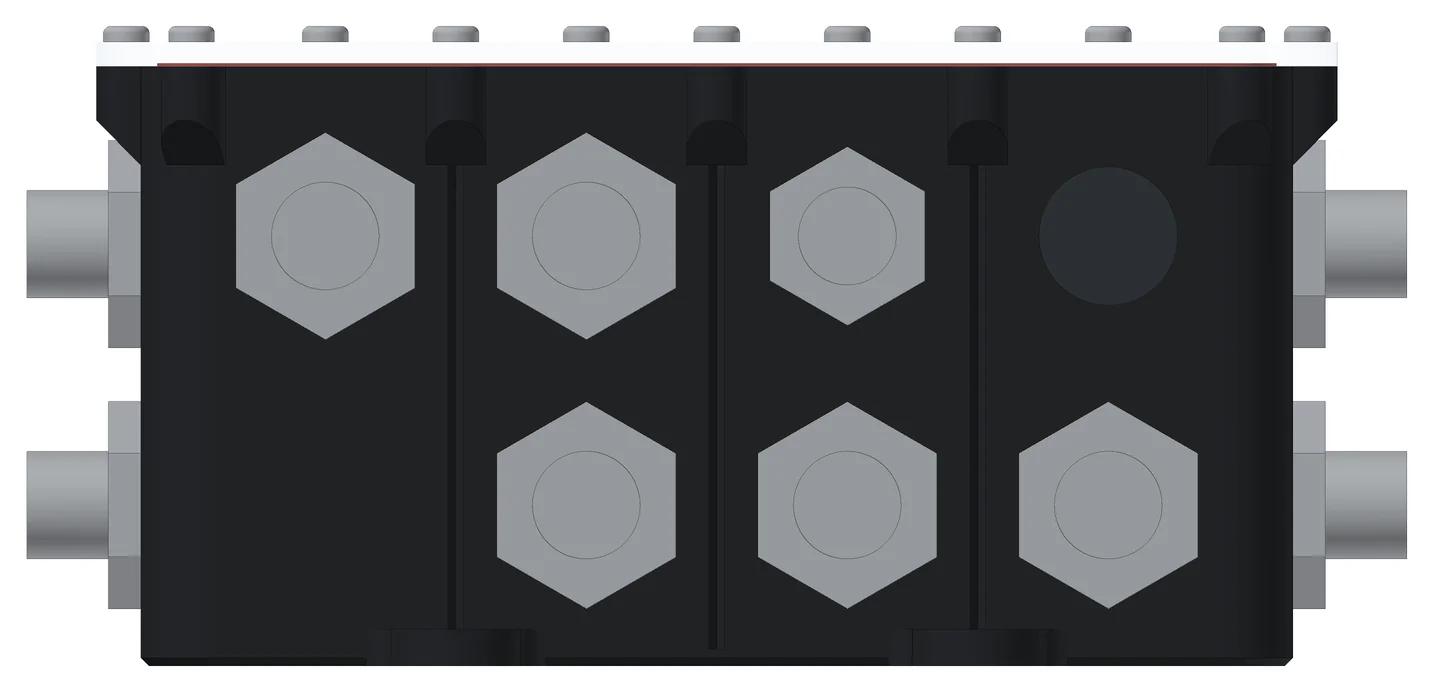
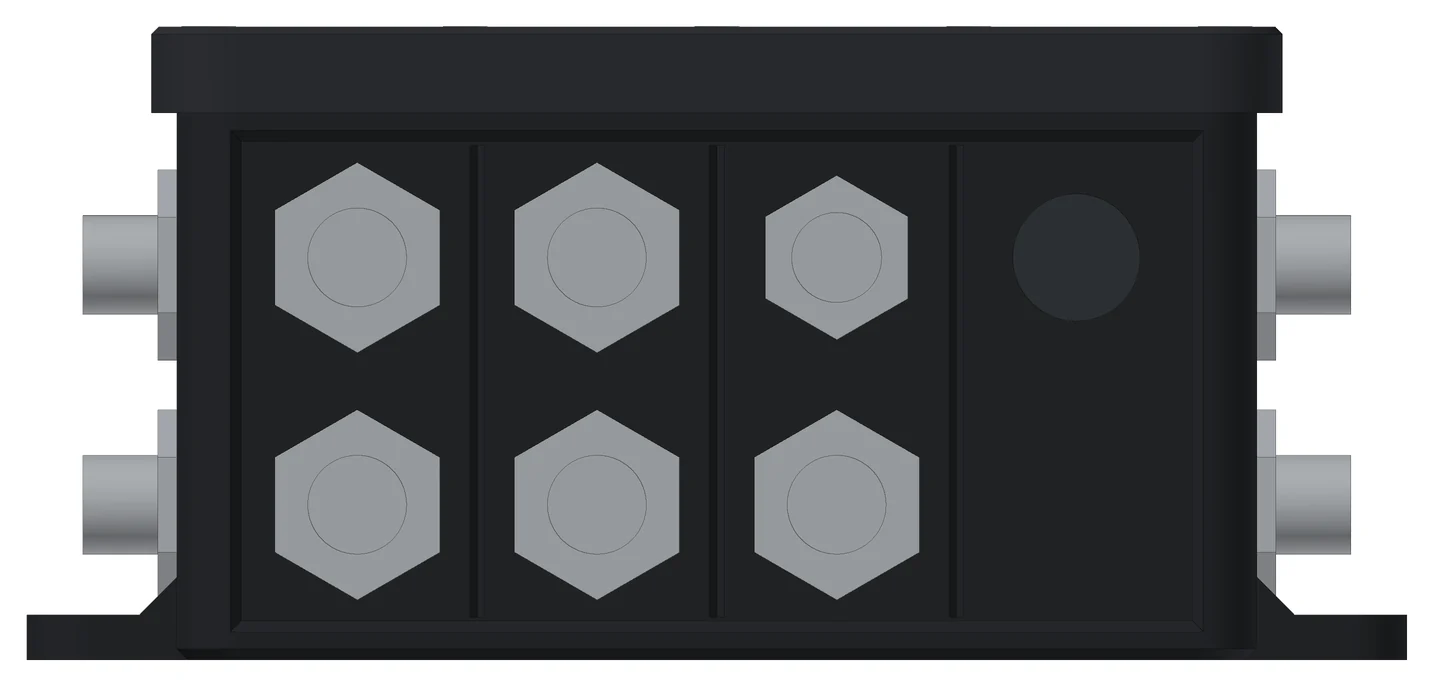
Fertigation page: premium boxes (5 mm walls, framed window with overlapping skirt), pH by cable gland, new sizes and renders

diff --git a/docs/fertigation/fio-8.html b/docs/fertigation/fio-8.html
@@ -129,6 +129,7 @@ svg .zone { fill: color-mix(in srgb, var(--cyan) 7%, transparent); stroke: none 
 
 .pair { display: grid; grid-template-columns: minmax(0, 1fr) minmax(0, 1fr); gap: 22px; align-items: start }
 .pair img { width: 100%; height: auto; display: block }
+figure.map > img { width: 100%; max-width: 760px; height: auto; display: block }
 @media (max-width: 760px) { .pair { grid-template-columns: minmax(0, 1fr) } }
 
 .note { background: var(--surface); border: 1px solid var(--line); border-radius: var(--radius); padding: 16px 18px; display: grid; gap: 6px }
@@ -154,8 +155,8 @@ footer .logo { height: 28px }
     <h1>FIO-8 fertigation board</h1>
     <p class="lead">The FIO-8 drives up to eight nutrient dosing pumps from one flow meter. Ten times a second it turns the recipe into a speed for every pump. Each pump output is electrically isolated, and the board stops dosing on its own the moment a reading or a wire looks wrong. It connects to GCU Cloud over Wi-Fi on its own, can report to an on-site GCU Manager, and is set up and run from the GCU Setup app over Bluetooth. Its RS-485 port reads and powers the water-quality probes. It comes in a sealed wall-mount box: every pump, sensor and input plugs in on a standard M12 connector, so there are no terminals to wire and no cabinet to build.</p>
     <figure class="hero-fig">
-      <img src="img/revc-fio8-closed.webp" width="1600" height="1234" alt="Render of the FIO-8 in its sealed black wall-mount box with a clear cover: rows of M12 connectors on the walls, the circuit board visible through the cover">
-      <figcaption>Rev C, rendered from the design. Pump ports on the front wall, sensor and input ports on the back, power, sensor bus, E-stop and the contactor and flush ports together on one end. The board and its lights show through the clear cover.</figcaption>
+      <img src="img/revc-fio8-closed.webp" width="1600" height="1313" alt="Render of the FIO-8 in its sealed black wall-mount box with a clear cover: rows of M12 connectors on the walls, the circuit board visible through the cover">
+      <figcaption>Rev C, rendered from the design. Pump ports on the front wall, sensor and input ports on the back, power, sensor bus, E-stop and the contactor and flush ports together on one end. The board and its lights show through the clear window in the cover.</figcaption>
     </figure>
   </div>
 
@@ -402,7 +403,7 @@ footer .logo { height: 28px }
     <div class="walls" role="group" aria-label="Port layout of the three connector walls, seen from outside">
       <div class="wall"><h3>Front wall · pumps</h3><div class="ports"><span class="port">PUMP 1</span><span class="port">PUMP 2</span><span class="port">PUMP 3</span><span class="port">PUMP 4</span><span class="port">PUMP 5</span><span class="port">PUMP 6</span><span class="port">PUMP 7</span><span class="port">PUMP 8</span></div></div>
       <div class="wall"><h3>Back wall · sensors and inputs</h3><div class="ports"><span class="port">FLOW A</span><span class="port">FLOW B</span><span class="port">4–20 IN 1</span><span class="port">4–20 IN 2</span><span class="port">IN 1·2</span><span class="port">IN 3·4</span><span class="port">IN 5·6</span><span class="port">IN 7·8</span></div></div>
-      <div class="wall"><h3>Service end</h3><div class="ports"><span class="port">BUS</span><span class="port">SENSOR BUS</span><span class="port pwr">24 V DC</span><span class="port none">vent</span><span class="port none">–</span><span class="port">E-STOP</span><span class="port">CON&shy;TACTOR</span><span class="port">FLUSH</span></div></div>
+      <div class="wall"><h3>Service end</h3><div class="ports"><span class="port">BUS</span><span class="port">SENSOR BUS</span><span class="port pwr">24 V DC</span><span class="port none">vent</span><span class="port">E-STOP</span><span class="port">CON&shy;TACTOR</span><span class="port">FLUSH</span><span class="port none">–</span></div></div>
     </div>
     <p class="muted" style="font-size:14px">Each wall as seen from outside. The fourth wall is blank, so the box can hang with no connector facing up.</p>
     <table class="tbl">
@@ -419,8 +420,8 @@ footer .logo { height: 28px }
       </tbody>
     </table>
     <div class="pair">
-      <figure class="map"><img src="img/revc-fio8-service.webp" width="1434" height="693" alt="Render of the service end of the FIO-8 box: the two bus ports, power and the vent in the top row, E-stop, contactor and flush in the bottom row"><figcaption>The service end: the two bus ports, power and the vent above; E-stop, contactor and flush below.</figcaption></figure>
-      <figure class="map"><img src="img/revc-fio8-open.webp" width="1600" height="1416" alt="Render of the FIO-8 box with the cover off: the main board lying flat and a connector board standing behind each wall of ports"><figcaption>Cover off. Each wall's ports sit on a connector board that links to the main board with a keyed ribbon cable.</figcaption></figure>
+      <figure class="map"><img src="img/revc-fio8-service.webp" width="1434" height="687" alt="Render of the service end of the FIO-8 box: the two bus ports, power and the vent in the top row, E-stop, contactor and flush in the bottom row"><figcaption>The service end: the two bus ports, power and the vent above; E-stop, contactor and flush below.</figcaption></figure>
+      <figure class="map"><img src="img/revc-fio8-open.webp" width="1600" height="1468" alt="Render of the FIO-8 box with the cover off: the main board lying flat and a connector board standing behind each wall of ports"><figcaption>Cover off. Each wall's ports sit on a connector board that links to the main board with a keyed ribbon cable.</figcaption></figure>
     </div>
   </section>
 
@@ -484,7 +485,7 @@ footer .logo { height: 28px }
         <tr><td>Processor</td><td>Plug-in Seeed XIAO ESP32-S3 (Wi-Fi, Bluetooth LE), antenna inside the box.</td></tr>
         <tr><td>Board</td><td>132 × 84 mm, 6 layers, plus four small connector boards.</td></tr>
         <tr><td>Connectors</td><td>M12 A-coded 4-pin on all 21 field ports; M12 T-coded for the 24 V supply.</td></tr>
-        <tr><td>Enclosure</td><td>Sealed wall-mount box, black ASA with a clear polycarbonate cover on a gasket, designed for IP65. 167 × 141 × 77 mm.</td></tr>
+        <tr><td>Enclosure</td><td>Sealed wall-mount box, black ASA with 5 mm walls and a framed clear polycarbonate window on a gasket, designed for IP65. 182 × 151 × 85 mm.</td></tr>
       </tbody>
     </table>
     <div class="note prose"><b>Water quality on the sensor port</b><span>The companion FIO-WQ board, below, measures pH and EC on the board itself, each channel in its own isolated circuit, and plugs into the FIO-8's RS-485 port at its own address on the FIO-8's 24 V.</span></div>
@@ -493,10 +494,10 @@ footer .logo { height: 28px }
   <!-- 8 -->
   <section id="fiowq">
     <header><span class="kicker">Companion board</span><h2>FIO-WQ: pH and EC measured on the board, in the water line</h2></header>
-    <p class="lead">The FIO-WQ reads two pH electrodes and two conductivity cells, each with its own temperature probe, and hands the readings to the FIO-8 over one four-wire cable. Each of the four measurement circuits is electrically isolated from the others and from the bus, so probes in the same water do not disturb each other and a wiring fault on one stays on one. It checks its own electrodes before it trusts them. The board itself stays dry in its sealed wall-mount box: the pH electrodes and conductivity cells sit in the water line, in a tee or a flow cell, and their cables run back to the BNC jacks and M12 ports.</p>
+    <p class="lead">The FIO-WQ reads two pH electrodes and two conductivity cells, each with its own temperature probe, and hands the readings to the FIO-8 over one four-wire cable. Each of the four measurement circuits is electrically isolated from the others and from the bus, so probes in the same water do not disturb each other and a wiring fault on one stays on one. It checks its own electrodes before it trusts them. The board itself stays dry in its sealed wall-mount box: the pH electrodes and conductivity cells sit in the water line, in a tee or a flow cell, and their cables run back to the box: the temperature probes and conductivity cells plug in on M12, and each pH electrode cable passes through a sealed cable gland and plugs in inside, where the connection stays dry.</p>
     <figure class="hero-fig">
-      <img src="img/revc-fiowq-closed.webp" width="1073" height="854" alt="Render of the FIO-WQ in its sealed black wall-mount box with a clear cover: four M12 probe ports in a row with two BNC jacks below them on the front wall, two bus ports on the side">
-      <figcaption>Rev C, rendered from the design. The front wall carries the two pH BNC jacks and four M12 ports for the pH temperature probes and the conductivity cells; bus in and out are on the side.</figcaption>
+      <img src="img/revc-fiowq-closed.webp" width="986" height="841" alt="Render of the FIO-WQ in its sealed black wall-mount box with a framed clear window: four M12 probe ports in a row and two cable glands for the pH electrode cables on the front wall, two bus ports on the side">
+      <figcaption>Rev C, rendered from the design. The front wall carries four M12 ports for the pH temperature probes and the conductivity cells, and two cable glands for the pH electrode cables; bus in and out are on the side.</figcaption>
     </figure>
     <div class="facts" role="list">
       <div class="fact" role="listitem"><b>2</b><span>pH inputs on BNC, glass and reference</span></div>
@@ -566,20 +567,17 @@ footer .logo { height: 28px }
         <tr><td>Status lights</td><td class="mono">BUS FLT PH1 PH2 EC1 EC2</td><td>Bus traffic, a board fault, and one light per channel; a USB-C service port sits beside them.</td></tr>
       </tbody>
     </table>
-    <div class="pair">
-      <figure class="map"><img src="img/revc-fiowq-front.webp" width="1600" height="673" alt="Render of the FIO-WQ front wall: PH TEMP 1, EC 1, PH TEMP 2 and EC 2 M12 ports in a row, with the PH 1 and PH 2 BNC jacks below"><figcaption>The probe wall: PH TEMP 1, EC 1, PH TEMP 2, EC 2 above; the PH 1 and PH 2 BNC jacks below.</figcaption></figure>
-      <figure class="map"><img src="img/revc-fiowq-exploded.webp" width="977" height="1052" alt="Exploded render of the FIO-WQ box: clear cover, gasket, board with its connector boards, and the black base"><figcaption>Cover, gasket, board with its connector boards, and the base.</figcaption></figure>
-    </div>
+    <figure class="map"><img src="img/revc-fiowq-open.webp" width="1089" height="1308" alt="Render of the FIO-WQ box with the cover off: the board with its two BNC jacks facing the cable glands, and the probe and bus connector boards behind the walls"><figcaption>Cover off. The two pH jacks sit on the board, in line with their cable glands; the probe ports and the bus ports are on connector boards behind the walls.</figcaption></figure>
     <table class="tbl">
       <tbody>
-        <tr><td>pH channels</td><td>2, on sealed BNC jacks with caps (any standard BNC electrode plugs in). Electrometer buffer, 24-bit converter, PT1000 compensation, 1 GΩ glass-impedance test, each in its own isolated circuit.</td></tr>
+        <tr><td>pH channels</td><td>2, for any standard BNC electrode. The cable enters through a sealed gland and plugs in inside the box, so the high-impedance connection stays dry. Electrometer buffer, 24-bit converter, PT1000 compensation, 1 GΩ glass-impedance test, each in its own isolated circuit.</td></tr>
         <tr><td>EC channels</td><td>2, for two-electrode cells, each on its own M12 port with its temperature probe. AC impedance measurement, on-board 100 Ω / 1 kΩ / 10 kΩ calibration and check resistors, PT1000 compensation, each in its own isolated circuit.</td></tr>
         <tr><td>Isolation</td><td>Four 1 W isolated supplies and four digital isolators; the electrodes and the bus share no ground.</td></tr>
         <tr><td>Bus</td><td>RS-485 Modbus RTU on the FIO-8's sensor port, at its own address, with the bus passed through to further sensors. Readings and probe health appear in GCU Cloud next to the FIO-8's dosing.</td></tr>
         <tr><td>Power</td><td>24 V from the FIO-8's sensor port, under 1 W typical. Fused and reverse-polarity protected.</td></tr>
         <tr><td>Processor</td><td>Plug-in Seeed XIAO module in two sockets; USB-C for service.</td></tr>
         <tr><td>Indicators</td><td>A buzzer, a red/green light per measurement channel, bus and fault lights, and a real-time clock with a coin-cell backup. The RS-485 termination is switched from the app (off by default: the FIO-WQ usually sits mid-bus).</td></tr>
-        <tr><td>Board and box</td><td>132 × 84 mm board, 4 layers, in the same sealed box family as the FIO-8: 141 × 114 × 68 mm, six M12 ports and two BNC jacks.</td></tr>
+        <tr><td>Board and box</td><td>132 × 84 mm board, 4 layers, in the same sealed box family as the FIO-8: 159 × 169 × 84 mm, six M12 ports and two cable glands.</td></tr>
       </tbody>
     </table>
   </section>
@@ -587,19 +585,20 @@ footer .logo { height: 28px }
   <!-- 9 -->
   <section id="enclosures">
     <header><span class="kicker">Enclosures</span><h2>Sealed wall-mount boxes</h2></header>
-    <p class="prose">Both boards share one box family: a black ASA base printed solid, and a flat clear polycarbonate cover that sits on a silicone gasket under a ring of stainless screws, so the board and its lights stay visible. Every M12 connector seals against the wall where it passes through, a membrane vent lets the box breathe without letting water in, and there is no button, no programming port and no hatch to leak. The box screws to a wall or a panel through four lugs outside the sealed space. Port names go on as labels.</p>
+    <p class="prose">Both boards share one box family, built to feel as solid as the electronics inside: a black ASA base with 5 mm walls, printed solid, and a cover made of a clear polycarbonate window held down by a black frame. The window presses onto a continuous silicone gasket, and the frame's skirt laps down over the outside of the walls, so water running down the box meets the skirt, not the seal. Sixteen flush stainless screws sit outside the gasket. Every M12 connector seals against the wall where it passes through, a membrane vent lets the box breathe without letting water in, and there is no button, no programming port and no hatch to leak.</p>
     <div class="pair">
-      <figure class="map"><img src="img/revc-fio8-closed.webp" width="1600" height="1234" alt="Render of the FIO-8 box, closed"><figcaption>FIO-8 box: 22 M12 ports on three walls.</figcaption></figure>
-      <figure class="map"><img src="img/revc-fiowq-closed.webp" width="1073" height="854" alt="Render of the FIO-WQ box, closed"><figcaption>FIO-WQ box: six M12 ports and two BNC jacks.</figcaption></figure>
+      <figure class="map"><img src="img/revc-fio8-closed.webp" width="1600" height="1313" alt="Render of the FIO-8 box, closed, with its black cover frame and clear window"><figcaption>FIO-8 box: 22 M12 ports on three walls.</figcaption></figure>
+      <figure class="map"><img src="img/revc-fiowq-closed.webp" width="986" height="841" alt="Render of the FIO-WQ box, closed, with its black cover frame and clear window"><figcaption>FIO-WQ box: six M12 ports and two cable glands.</figcaption></figure>
     </div>
+    <figure class="map"><img src="img/revc-joint.webp" width="1207" height="555" alt="Section drawing of the cover joint: the frame clamps the clear window onto a silicone cord in a groove in the rim, with the frame's skirt lapping down outside the wall and the screw outside the gasket"><figcaption>The cover joint in section: window on the gasket, frame over the window, skirt over the wall.</figcaption></figure>
     <table class="tbl">
       <tbody>
-        <tr><td>Protection</td><td>Designed for IP65: gasketed cover, sealed connectors, membrane vent. The rating is confirmed by test before release.</td></tr>
-        <tr><td>Material</td><td>Black ASA base; 3 mm clear polycarbonate cover; silicone gasket; stainless screws into brass inserts.</td></tr>
-        <tr><td>Mounting</td><td>Four screw lugs, reachable with the cover on. Mount with the blank wall up, so no connector faces the sky.</td></tr>
-        <tr><td>FIO-8 box</td><td>167 × 141 × 77 mm (205 mm over the lugs).</td></tr>
-        <tr><td>FIO-WQ box</td><td>141 × 114 × 68 mm (173 mm over the lugs).</td></tr>
-        <tr><td>Service</td><td>Firmware updates arrive over the air. Unused ports take a screw cap.</td></tr>
+        <tr><td>Protection</td><td>Designed for IP65: gasketed window, overlapping cover frame, sealed connectors, membrane vent. The rating is confirmed by test before release.</td></tr>
+        <tr><td>Material</td><td>Black ASA base and cover frame, 5 mm walls, 4 mm floor; 3 mm clear polycarbonate window; silicone gasket; stainless screws into brass inserts.</td></tr>
+        <tr><td>Mounting</td><td>Screws through feet or rails outside the sealed space, reachable with the cover on. Mount with the blank wall up, so no connector faces the sky.</td></tr>
+        <tr><td>FIO-8 box</td><td>182 × 151 × 85 mm (196 × 184 mm over the mounting feet).</td></tr>
+        <tr><td>FIO-WQ box</td><td>159 × 169 × 84 mm (191 × 175 mm over the mounting rails).</td></tr>
+        <tr><td>Service</td><td>Firmware updates arrive over the air. Unused ports take a screw cap; an unused pH gland is closed with a blank insert.</td></tr>
       </tbody>
     </table>
   </section>
